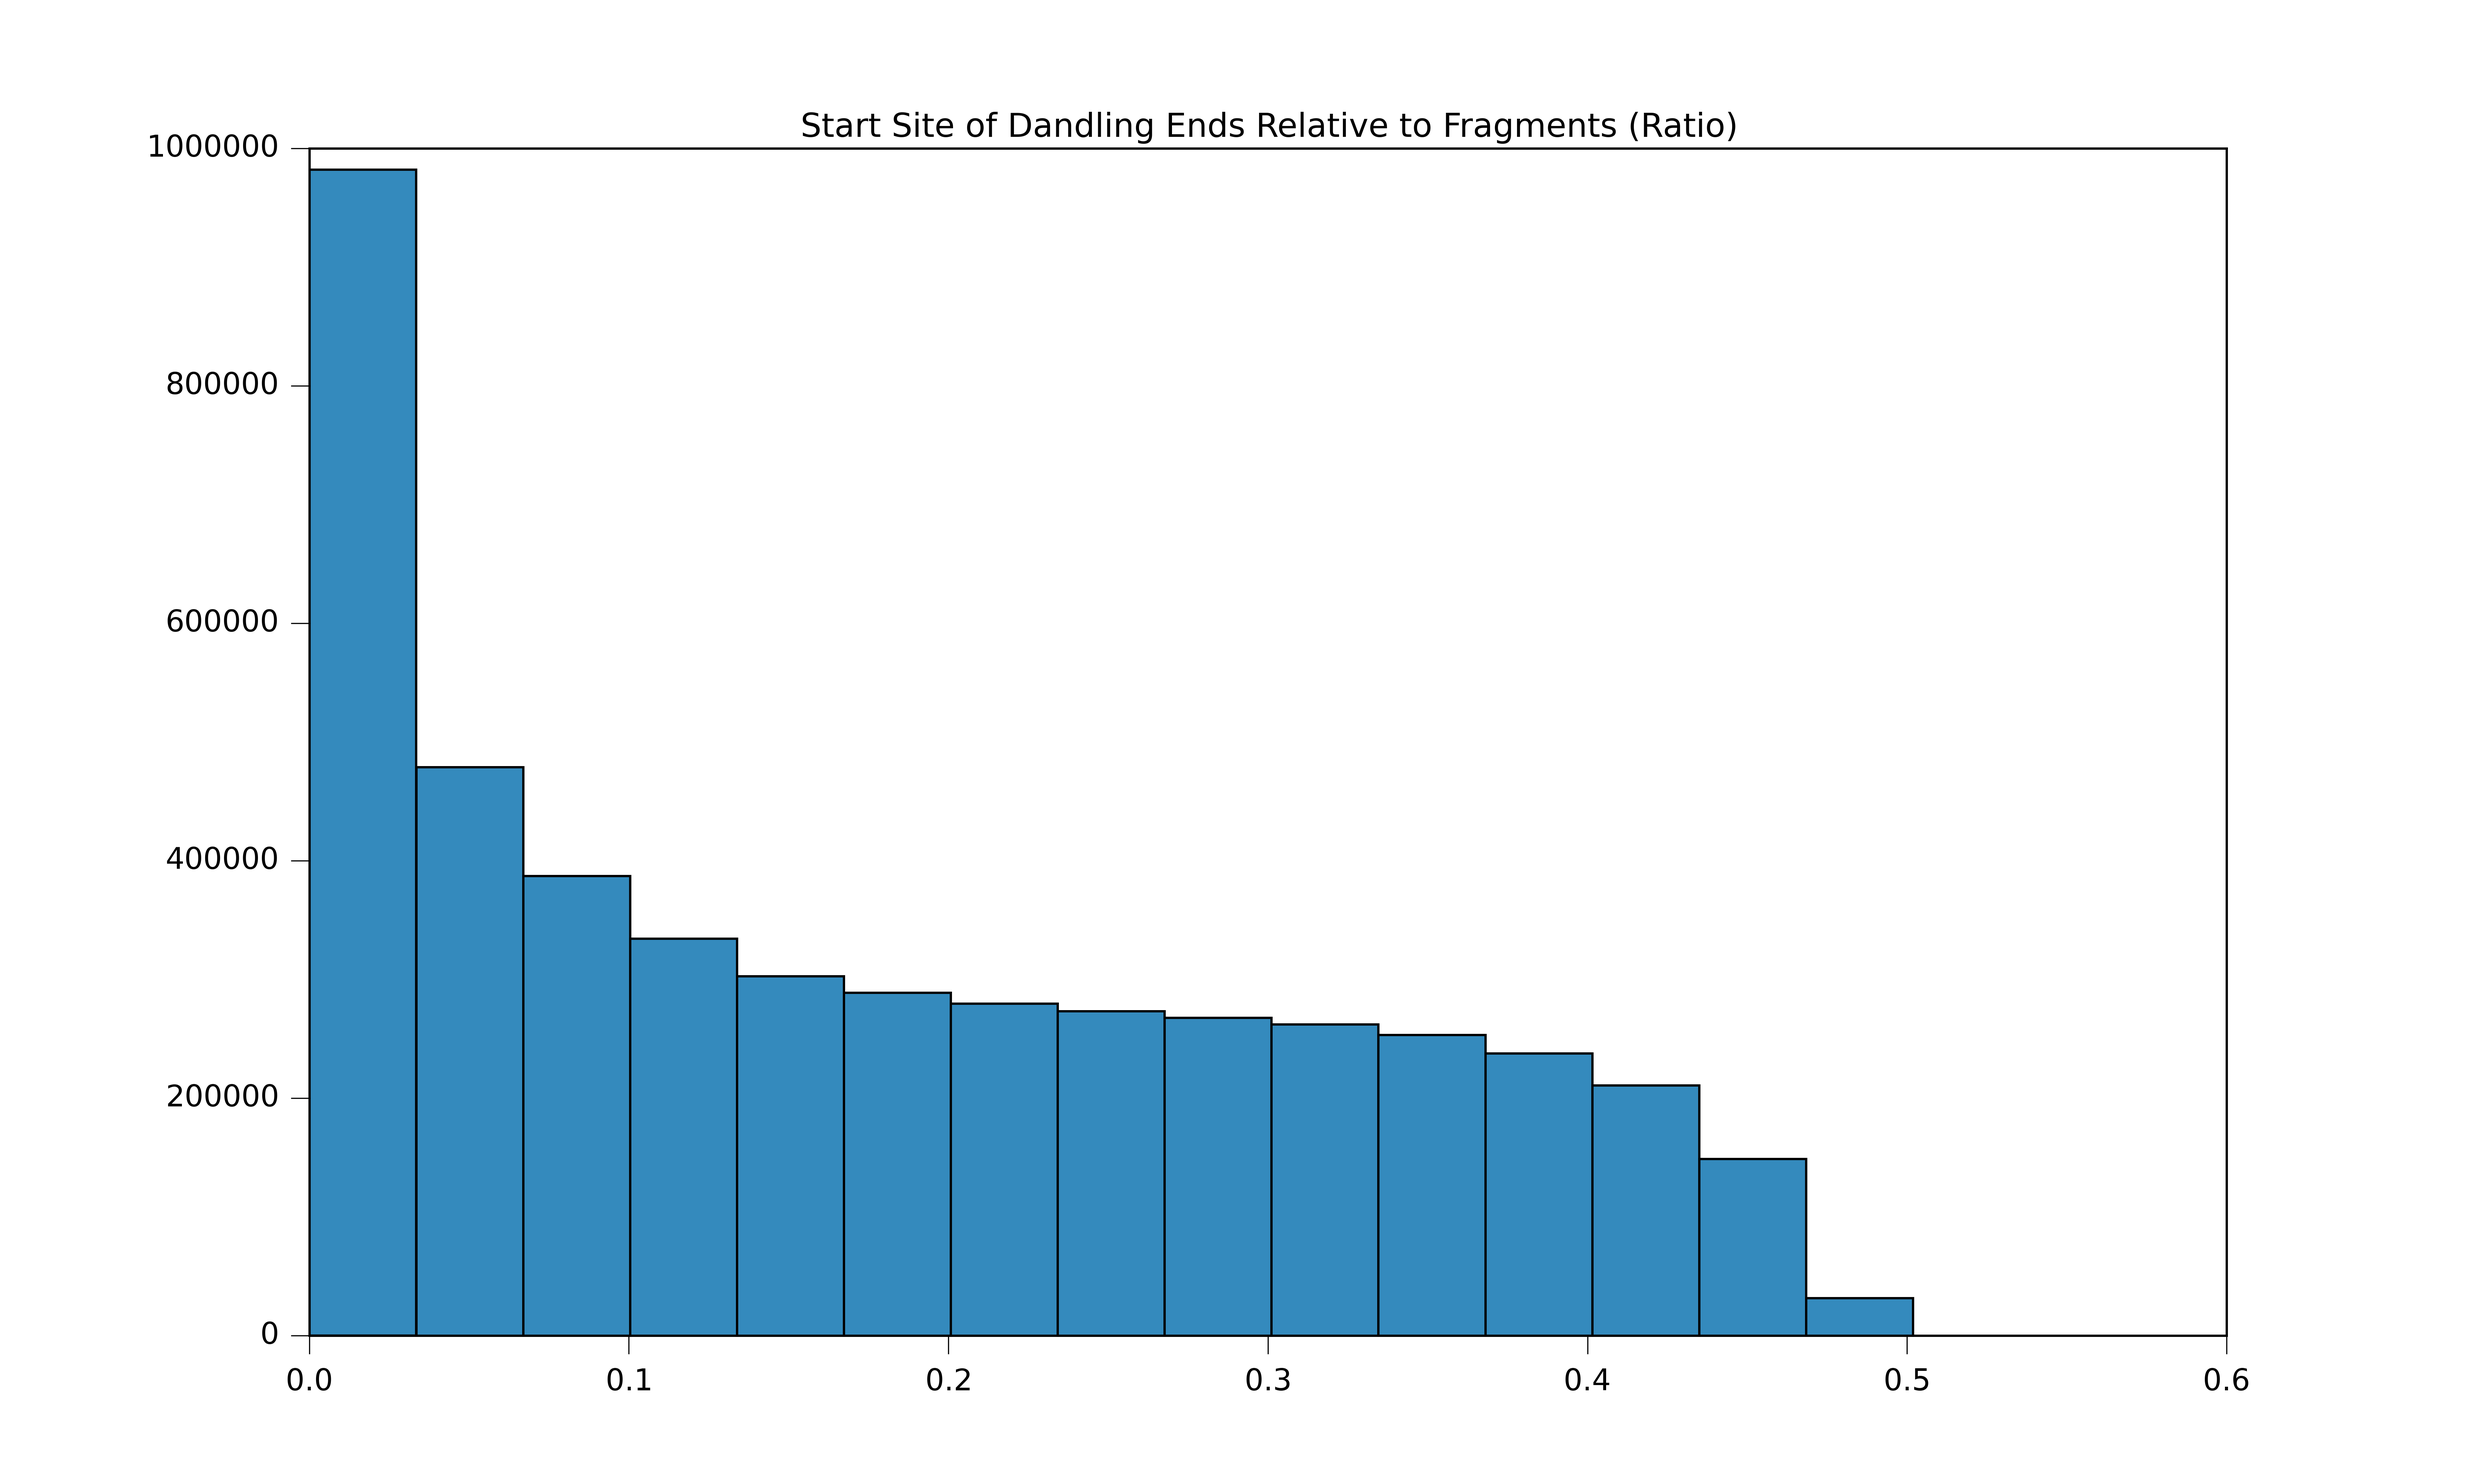
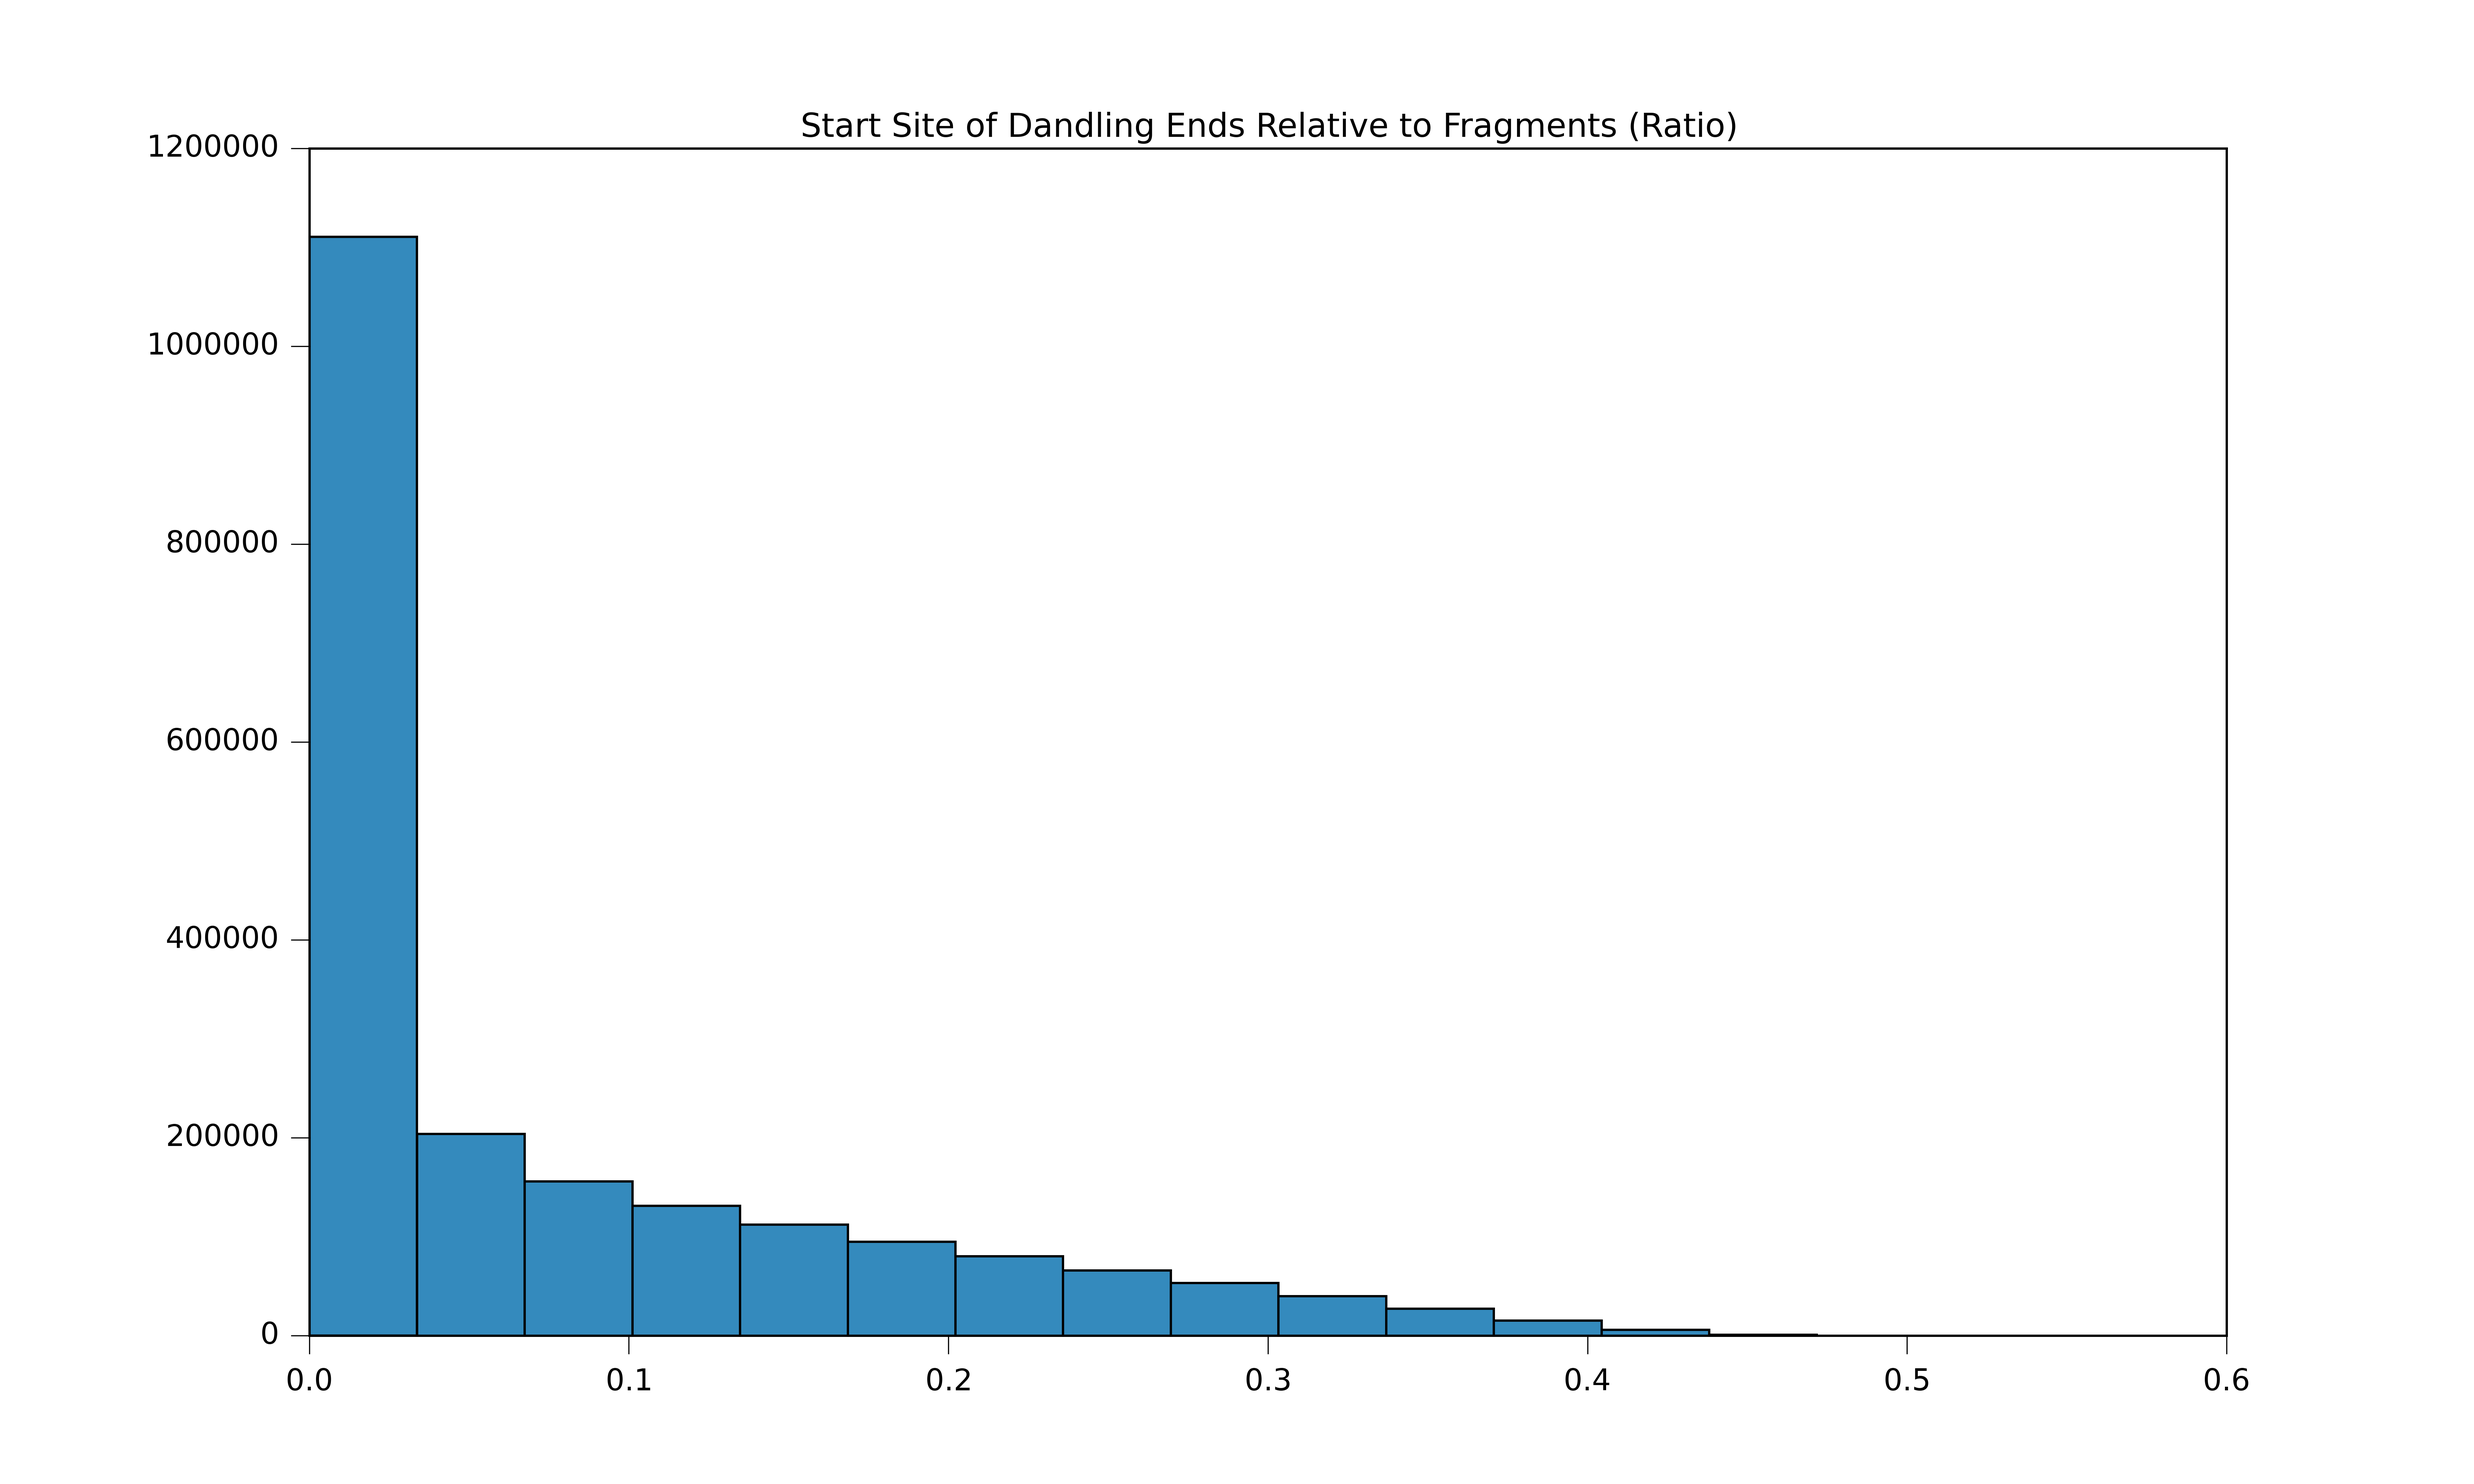
Update Recipes.rst

diff --git a/Recipes.rst b/Recipes.rst
@@ -178,6 +178,31 @@ so "010_UniqueMappedReads" and "020_LigationCounts" are parts of "000_SequencedR
 similarly, "122_SelfLigationReads", "124_DanglingReads" and "126_UnknownMechanism"
 constitute "120_SameFragmentReads".
 
+Library-size Estimation
+```````````````````````
+Dangling reads can be applied to estimate your library size in nature. Here's an example
+of size distribution of dangling read molecules for normal 300~500bp library:
+
+.. image:: ./images/librarySize.png
+        :align: center
+
+The inconsistency between this distribution and the experimental library size suggests
+a failure in DNA size selection step.
+
+Ligation Efficiency
+```````````````````
+Excessive dangling reads may result from low ligation efficiency or poor streptavidin
+specificity. Can we further discriminate these two mechanisms? Intuitively, if one of the
+read of most read pairs locates near a restriction site, the former (low ligation efficiency)
+is more likely to be the cause, so we also plot the distribution of the relative start
+site for dangling reads:
+
+.. image:: ./images/danglingStart.png
+        :align: center
+
+Here, the majority of these read pairs have one of their read starting near a restriction
+site, therefore, ligation efficiency could be a good explain.
+
 Read-pair Type Plotting
 ````````````````````````
 Read-pair type ratios will be reported in line-plot manner for each biological
